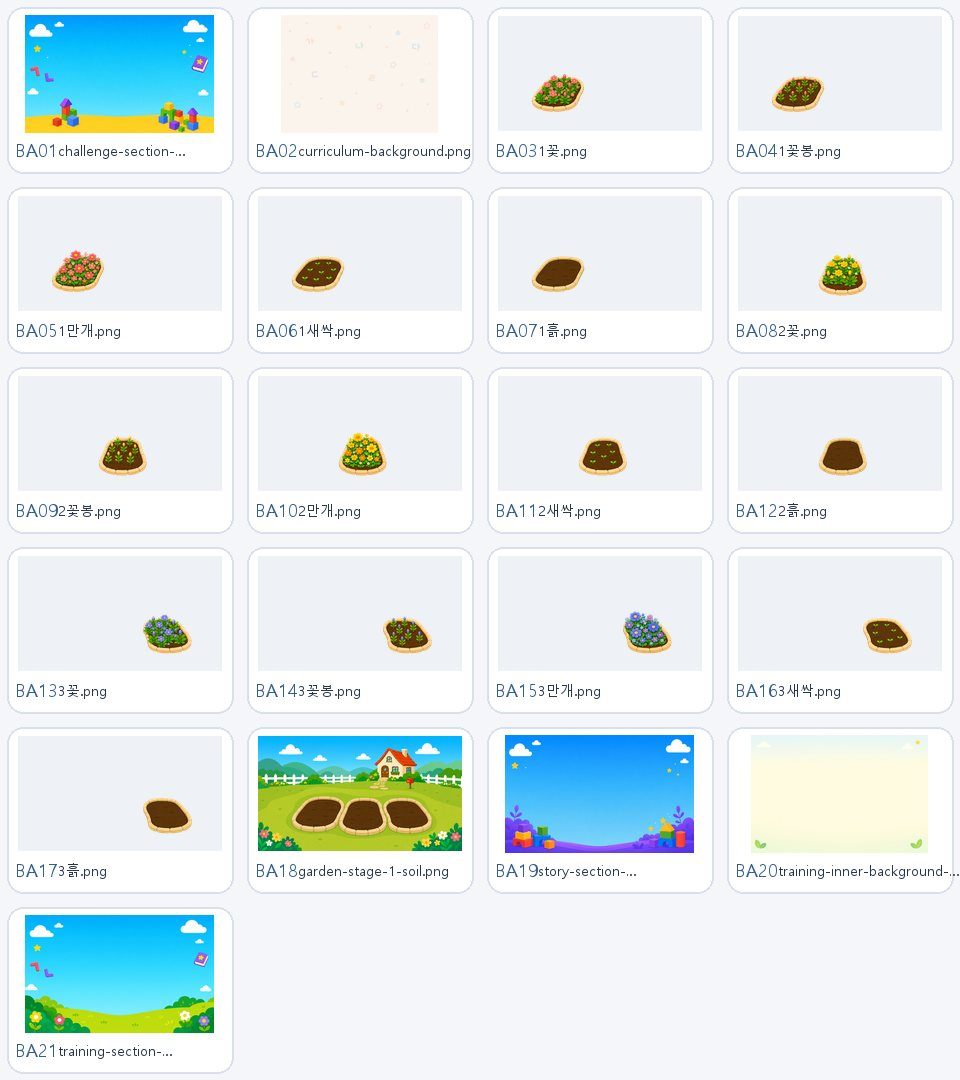
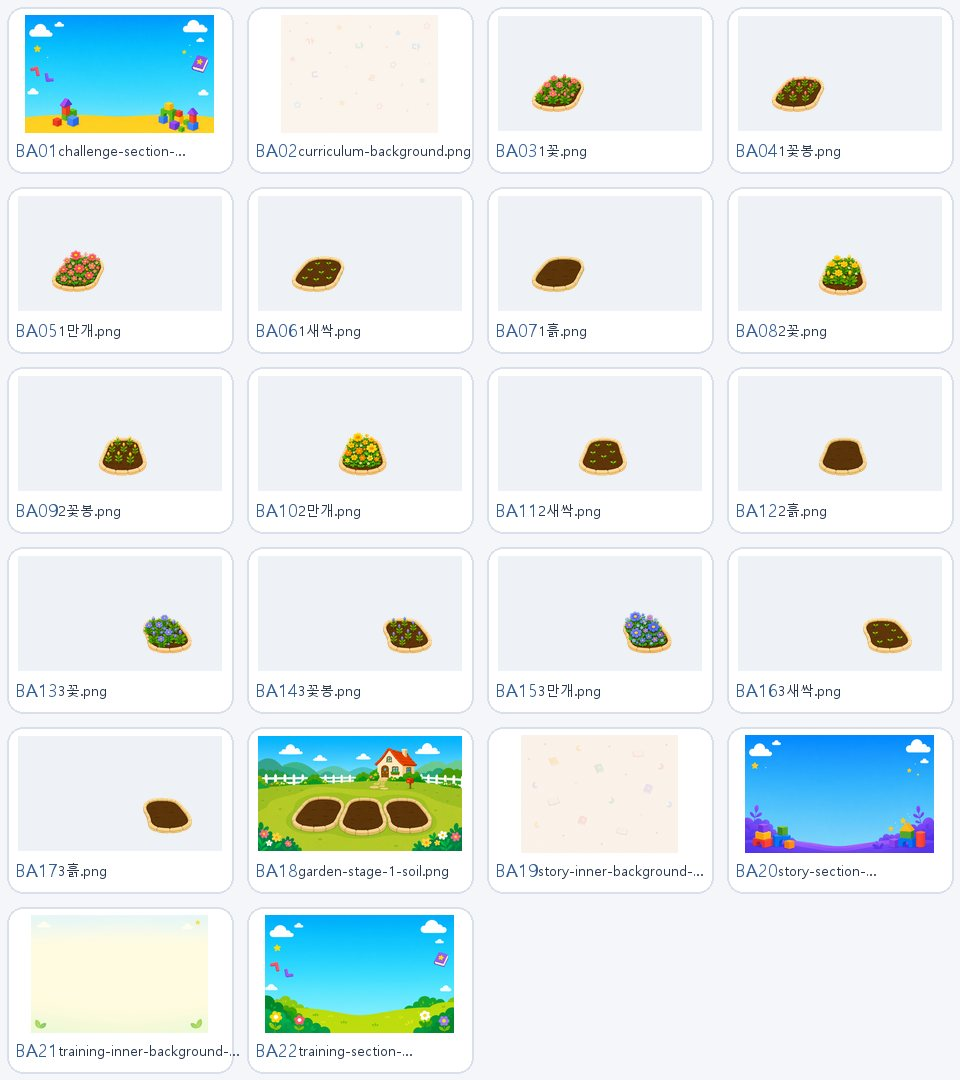
docs(design): 학습 UI 리소스 기준 갱신
아동용 학습 UI 정책과 에셋 사용 위치를 최신 구현에 맞춰 정리하고 frontend-app 서브모듈 참조를 갱신한다.

Changed region(s): [[0.0, 0.825, 0.5, 0.9778], [0.5, 0.6722, 1.0, 0.825]]

diff --git a/docs/product/frontend-asset-inventory.md b/docs/product/frontend-asset-inventory.md
@@ -3,7 +3,7 @@
 - 생성 기준: `tools/audit_frontend_assets.py`
 - 대상: `services/frontend-app/src/assets`
 - 기준일: 2026-07-30
-- 파일: 155개 · 57.60 MiB
+- 파일: 160개 · 58.01 MiB
 - 각 리소스의 미리보기, 실제 Vue 연결 상태, 노출 화면·위치, 직접 참조 파일과 1차 정비 분류를 함께 관리한다.
 
 ## 문서 읽는 법
@@ -20,7 +20,7 @@
 | --- | ---: |
 | `.png` | 123 |
 | `.svg` | 19 |
-| `.webp` | 9 |
+| `.webp` | 14 |
 | `.css` | 2 |
 | `.riv` | 1 |
 | `.ttf` | 1 |
@@ -55,9 +55,10 @@
 | BA16 | `backgrounds/garden-growth/3새싹.png` | 163.6 KiB<br>1672×941 | Vue 연결 확인 | 성장 정원 · 화단/이야기 친구<br>앱 전체 · 전역 오버레이 | `src/views/learner/GrowthView.vue` | 유지+최적화<br>표시 크기·차세대 포맷 검토 |
 | BA17 | `backgrounds/garden-growth/3흙.png` | 151.6 KiB<br>1672×941 | Vue 연결 확인 | 성장 정원 · 화단/이야기 친구<br>앱 전체 · 전역 오버레이 | `src/views/learner/GrowthView.vue` | 유지+최적화<br>표시 크기·차세대 포맷 검토 |
 | BA18 | `backgrounds/garden-growth/garden-stage-1-soil.png` | 1668.6 KiB<br>1672×941 | Vue 연결 확인 | 성장 정원 · 화단/이야기 친구<br>앱 전체 · 전역 오버레이 | `src/views/learner/GrowthView.vue` | 유지+최적화<br>표시 크기·차세대 포맷 검토 |
-| BA19 | `backgrounds/story-section-background.png` | 1176.5 KiB<br>1586×992 | Vue 연결 확인 | 앱 전체 · 전역 오버레이<br>이야기 나라 · 참조 스타일이 적용되는 화면<br>이야기 나라 · 책 선택/이어 읽기<br>이야기 읽기 · 장면/분기/친구 보상 | `src/styles/story/StoryReaderView.css`<br>`src/views/learner/StorySelectionView.vue` | 유지+최적화<br>표시 크기·차세대 포맷 검토 |
-| BA20 | `backgrounds/training-inner-background-flat-vector.png` | 1152.3 KiB<br>1536×1024 | Vue 연결 확인 | 글자 학습 · 참조 스타일이 적용되는 화면<br>글자 학습 · 커리큘럼/훈련 선택<br>앱 전체 · 전역 오버레이 | `src/styles/training/TrainingHomeView.css` | 유지+최적화<br>표시 크기·차세대 포맷 검토 |
-| BA21 | `backgrounds/training-section-background.png` | 1006.7 KiB<br>1586×992 | Vue 연결 확인 | 글자 학습 · 문제 세트 완료<br>글자 학습 · 문제 풀이 공통 화면<br>글자 학습 · 일반/올정답 완료<br>글자 학습 · 참조 스타일이 적용되는 화면<br>글자 학습 · 커리큘럼/훈련 선택<br>앱 전체 · 전역 오버레이<br>오늘의 학습 · 전체 완료 | `src/styles/training/TodayTrainingCompleteView.css`<br>`src/styles/training/TrainingComplete.css`<br>`src/styles/training/TrainingHomeView.css`<br>`src/styles/training/TrainingLessonView.css` | 유지+최적화<br>표시 크기·차세대 포맷 검토 |
+| BA19 | `backgrounds/story-inner-background-books.webp` | 7.5 KiB<br>1448×1086 | Vue 연결 확인 | 앱 전체 · 전역 오버레이<br>이야기 나라 · 참조 스타일이 적용되는 화면<br>이야기 나라 · 책 선택/이어 읽기 | `src/styles/story/StorySelectionView.css` | 유지+최적화<br>표시 크기·차세대 포맷 검토 |
+| BA20 | `backgrounds/story-section-background.png` | 1176.5 KiB<br>1586×992 | Vue 연결 확인 | 앱 전체 · 전역 오버레이<br>이야기 나라 · 참조 스타일이 적용되는 화면<br>이야기 나라 · 책 선택/이어 읽기<br>이야기 읽기 · 장면/분기/친구 보상 | `src/styles/story/StoryReaderView.css`<br>`src/views/learner/StorySelectionView.vue` | 유지+최적화<br>표시 크기·차세대 포맷 검토 |
+| BA21 | `backgrounds/training-inner-background-flat-vector.png` | 1152.3 KiB<br>1536×1024 | Vue 연결 확인 | 글자 학습 · 참조 스타일이 적용되는 화면<br>글자 학습 · 커리큘럼/훈련 선택<br>앱 전체 · 전역 오버레이 | `src/styles/training/TrainingHomeView.css` | 유지+최적화<br>표시 크기·차세대 포맷 검토 |
+| BA22 | `backgrounds/training-section-background.png` | 1006.7 KiB<br>1586×992 | Vue 연결 확인 | 글자 학습 · 문제 세트 완료<br>글자 학습 · 문제 풀이 공통 화면<br>글자 학습 · 일반/올정답 완료<br>글자 학습 · 참조 스타일이 적용되는 화면<br>글자 학습 · 커리큘럼/훈련 선택<br>앱 전체 · 전역 오버레이<br>오늘의 학습 · 전체 완료 | `src/styles/training/TodayTrainingCompleteView.css`<br>`src/styles/training/TrainingComplete.css`<br>`src/styles/training/TrainingHomeView.css`<br>`src/styles/training/TrainingLessonView.css` | 유지+최적화<br>표시 크기·차세대 포맷 검토 |
 
 ## `base.css`
 
@@ -177,21 +178,21 @@
 
 | 미리보기 | 리소스 | 크기·픽셀 | 연결 상태 | 화면·위치 | 직접 참조 | 분류·다음 검토 |
 | --- | --- | ---: | --- | --- | --- | --- |
-| <img src="../../services/frontend-app/src/assets/icons/arrow-back.svg" width="54" alt="arrow-back 미리보기"> | `icons/arrow-back.svg` | 0.2 KiB<br>- | Vue 연결 확인 | 글자 학습 · 문제 풀이 공통 화면<br>아동 상세 화면 · 공통 뒤로가기<br>앱 전체 · 전역 오버레이<br>이야기 나라 · 책 선택/이어 읽기<br>이야기 읽기 · 장면/분기/친구 보상 | `src/components/common/PageBackButton.vue` | 유지<br>공통 의미 아이콘 |
+| <img src="../../services/frontend-app/src/assets/icons/arrow-back.svg" width="54" alt="arrow-back 미리보기"> | `icons/arrow-back.svg` | 0.2 KiB<br>- | Vue 연결 확인 | 아동 상세 화면 · 공통 뒤로가기<br>앱 전체 · 전역 오버레이<br>이야기 나라 · 책 선택/이어 읽기<br>이야기 읽기 · 장면/분기/친구 보상 | `src/components/common/PageBackButton.vue` | 유지<br>공통 의미 아이콘 |
 | <img src="../../services/frontend-app/src/assets/icons/arrow-right.svg" width="54" alt="arrow-right 미리보기"> | `icons/arrow-right.svg` | 0.2 KiB<br>- | Vue 연결 확인 | 글자 학습 · SoundManipulation 활동<br>글자 학습 · SoundOmit 활동<br>글자 학습 · 문제 풀이 공통 화면<br>글자 학습 · 커리큘럼/훈련 선택<br>글자 학습 · 훈련 목록 모달<br>글자 학습 · 훈련 목록 카드<br>글자 학습 · 훈련 시작<br>실력 도전 · 코스 선택<br>앱 전체 · 전역 오버레이<br>이야기 읽기 · 장면/분기/친구 보상 | `src/components/training/activities/SoundManipulationActivity.vue`<br>`src/components/training/activities/SoundOmitActivity.vue`<br>`src/components/training/TrainingIntro.vue`<br>`src/components/training/TrainingLessonCard.vue`<br>`외 2개` | 유지<br>공통 의미 아이콘 |
-| <img src="../../services/frontend-app/src/assets/icons/check.svg" width="54" alt="check 미리보기"> | `icons/check.svg` | 0.2 KiB<br>- | Vue 연결 확인 | 글자 학습 · ReadAloud 활동<br>글자 학습 · WordReadingGrid 활동<br>글자 학습 · 문제 풀이 공통 화면<br>글자 학습 · 커리큘럼 경로<br>글자 학습 · 커리큘럼/훈련 선택<br>글자 학습 · 훈련 목록 모달<br>글자 학습 · 훈련 목록 카드<br>성장 정원 · 화단/이야기 친구<br>앱 전체 · 전역 오버레이 | `src/components/training/activities/ReadAloudActivity.vue`<br>`src/components/training/activities/WordReadingGridActivity.vue`<br>`src/components/training/TrainingCurriculumPath.vue`<br>`src/components/training/TrainingLessonCard.vue`<br>`외 1개` | 유지<br>공통 의미 아이콘 |
+| <img src="../../services/frontend-app/src/assets/icons/check.svg" width="54" alt="check 미리보기"> | `icons/check.svg` | 0.2 KiB<br>- | Vue 연결 확인 | 글자 학습 · ReadAloud 활동<br>글자 학습 · WordReadingGrid 활동<br>글자 학습 · 문제 풀이 공통 화면<br>글자 학습 · 커리큘럼 경로<br>글자 학습 · 커리큘럼/훈련 선택<br>글자 학습 · 훈련 목록 모달<br>글자 학습 · 훈련 목록 카드<br>성장 정원 · 화단/이야기 친구<br>앱 전체 · 전역 오버레이<br>이야기 읽기 · 장면/분기/친구 보상 | `src/components/training/activities/ReadAloudActivity.vue`<br>`src/components/training/activities/WordReadingGridActivity.vue`<br>`src/components/training/TrainingCurriculumPath.vue`<br>`src/components/training/TrainingLessonCard.vue`<br>`외 2개` | 유지<br>공통 의미 아이콘 |
 | <img src="../../services/frontend-app/src/assets/icons/close.svg" width="54" alt="close 미리보기"> | `icons/close.svg` | 0.2 KiB<br>- | Vue 연결 확인 | 글자 학습 · SoundOmit 활동<br>글자 학습 · 문제 풀이 공통 화면<br>글자 학습 · 커리큘럼/훈련 선택<br>글자 학습 · 훈련 목록 모달<br>성장 정원 · 이야기 친구 모달<br>성장 정원 · 화단/이야기 친구<br>앱 전체 · 전역 오버레이 | `src/components/growth/StoryFriendCollectionModal.vue`<br>`src/components/training/activities/SoundOmitActivity.vue`<br>`src/components/training/TrainingLessonModal.vue` | 유지<br>공통 의미 아이콘 |
 | <img src="../../services/frontend-app/src/assets/icons/drag-handle.svg" width="54" alt="drag-handle 미리보기"> | `icons/drag-handle.svg` | 0.3 KiB<br>- | Vue 연결 확인 | 글자 학습 · FillBlank 활동<br>글자 학습 · SentenceChoice 활동<br>글자 학습 · SentenceOrder 활동<br>글자 학습 · 문제 풀이 공통 화면<br>앱 전체 · 전역 오버레이 | `src/components/training/activities/FillBlankActivity.vue`<br>`src/components/training/activities/SentenceChoiceActivity.vue`<br>`src/components/training/activities/SentenceOrderActivity.vue` | 유지<br>공통 의미 아이콘 |
 | <img src="../../services/frontend-app/src/assets/icons/exit.svg" width="54" alt="exit 미리보기"> | `icons/exit.svg` | 0.5 KiB<br>- | Vue 연결 확인 | 로그인 이후 모든 아동 화면 · 공통 레이아웃<br>로그인 이후 모든 아동 화면 · 상단 헤더<br>앱 전체 · 전역 오버레이 | `src/components/layout/LearnerHeader.vue` | 유지<br>공통 의미 아이콘 |
 | <img src="../../services/frontend-app/src/assets/icons/eye-tracker.svg" width="54" alt="eye-tracker 미리보기"> | `icons/eye-tracker.svg` | 0.5 KiB<br>- | Vue 연결 확인 | 글자 학습 · 문제 풀이 공통 화면<br>로그인 이후 모든 아동 화면 · 공통 레이아웃<br>로그인 이후 모든 아동 화면 · 상단 헤더<br>앱 전체 · 전역 오버레이 | `src/components/layout/LearnerHeader.vue`<br>`src/views/learner/TrainingLessonView.vue` | 유지<br>공통 의미 아이콘 |
 | <img src="../../services/frontend-app/src/assets/icons/lock.svg" width="54" alt="lock 미리보기"> | `icons/lock.svg` | 0.3 KiB<br>- | Vue 연결 확인 | 아동 로그인 · 계정 입력/아동 선택<br>앱 전체 · 전역 오버레이 | `src/views/learner/LearnerLoginView.vue` | 유지<br>공통 의미 아이콘 |
-| <img src="../../services/frontend-app/src/assets/icons/microphone.svg" width="54" alt="microphone 미리보기"> | `icons/microphone.svg` | 0.3 KiB<br>- | Vue 연결 확인 | 글자 학습 · ReadAloud 활동<br>글자 학습 · 문제 풀이 공통 화면<br>로그인 이후 모든 아동 화면 · 공통 레이아웃<br>로그인 이후 모든 아동 화면 · 상단 헤더<br>앱 전체 · 전역 오버레이<br>이야기 읽기 · 장면/분기/친구 보상 | `src/components/layout/LearnerHeader.vue`<br>`src/components/training/activities/ReadAloudActivity.vue`<br>`src/views/learner/StoryReaderView.vue`<br>`src/views/learner/TrainingLessonView.vue` | 유지<br>공통 의미 아이콘 |
+| <img src="../../services/frontend-app/src/assets/icons/microphone.svg" width="54" alt="microphone 미리보기"> | `icons/microphone.svg` | 0.3 KiB<br>- | Vue 연결 확인 | 글자 학습 · GazeTrace 활동<br>글자 학습 · ReadAloud 활동<br>글자 학습 · 문제 풀이 공통 화면<br>로그인 이후 모든 아동 화면 · 공통 레이아웃<br>로그인 이후 모든 아동 화면 · 상단 헤더<br>앱 전체 · 전역 오버레이<br>이야기 읽기 · 장면/분기/친구 보상 | `src/components/layout/LearnerHeader.vue`<br>`src/components/training/activities/GazeTraceActivity.vue`<br>`src/components/training/activities/ReadAloudActivity.vue`<br>`src/views/learner/StoryReaderView.vue`<br>`외 1개` | 유지<br>공통 의미 아이콘 |
 | <img src="../../services/frontend-app/src/assets/icons/pending.svg" width="54" alt="pending 미리보기"> | `icons/pending.svg` | 0.2 KiB<br>- | Vue 연결 확인 | 글자 학습 · 커리큘럼/훈련 선택<br>글자 학습 · 훈련 목록 모달<br>글자 학습 · 훈련 목록 카드<br>앱 전체 · 전역 오버레이 | `src/components/training/TrainingLessonCard.vue` | 유지<br>공통 의미 아이콘 |
-| <img src="../../services/frontend-app/src/assets/icons/reading-active.svg" width="54" alt="reading-active 미리보기"> | `icons/reading-active.svg` | 0.3 KiB<br>- | Vue 연결 확인 | 글자 학습 · FillBlank 활동<br>글자 학습 · GazeTrace 활동<br>글자 학습 · SentenceChoice 활동<br>글자 학습 · SentenceOrder 활동<br>글자 학습 · SentenceReading 활동<br>글자 학습 · WordReadingGrid 활동<br>글자 학습 · 문제 풀이 공통 화면<br>앱 전체 · 전역 오버레이 | `src/components/training/activities/FillBlankActivity.vue`<br>`src/components/training/activities/GazeTraceActivity.vue`<br>`src/components/training/activities/SentenceChoiceActivity.vue`<br>`src/components/training/activities/SentenceOrderActivity.vue`<br>`외 2개` | 유지<br>공통 의미 아이콘 |
+| <img src="../../services/frontend-app/src/assets/icons/reading-active.svg" width="54" alt="reading-active 미리보기"> | `icons/reading-active.svg` | 0.3 KiB<br>- | Vue 연결 확인 | 글자 학습 · FillBlank 활동<br>글자 학습 · SentenceOrder 활동<br>글자 학습 · SentenceReading 활동<br>글자 학습 · WordReadingGrid 활동<br>글자 학습 · 문제 풀이 공통 화면<br>앱 전체 · 전역 오버레이 | `src/components/training/activities/FillBlankActivity.vue`<br>`src/components/training/activities/SentenceOrderActivity.vue`<br>`src/components/training/activities/SentenceReadingActivity.vue`<br>`src/components/training/activities/WordReadingGridActivity.vue` | 유지<br>공통 의미 아이콘 |
 | <img src="../../services/frontend-app/src/assets/icons/resource-placeholder.svg" width="54" alt="resource-placeholder 미리보기"> | `icons/resource-placeholder.svg` | 0.3 KiB<br>- | Vue 연결 확인 | 글자 학습 · AudioLetterChoice 활동<br>글자 학습 · CardCombine 활동<br>글자 학습 · ListenAndSelect 활동<br>글자 학습 · SentenceChoice 활동<br>글자 학습 · SoundChoice 활동<br>글자 학습 · 누락 리소스 자리<br>글자 학습 · 문제 풀이 공통 화면<br>글자 학습 · 자모 카드<br>앱 전체 · 전역 오버레이 | `src/components/training/ResourceRequired.vue` | 유지<br>공통 의미 아이콘 |
-| <img src="../../services/frontend-app/src/assets/icons/sound-listen.svg" width="54" alt="sound-listen 미리보기"> | `icons/sound-listen.svg` | 0.3 KiB<br>- | Vue 연결 확인 | 글자 학습 · AudioLetterChoice 활동<br>글자 학습 · GazeTrace 활동<br>글자 학습 · HangulBattle 활동<br>글자 학습 · LetterBuild 활동<br>글자 학습 · ListenAndSelect 활동<br>글자 학습 · ReadAloud 활동<br>글자 학습 · SoundBuild 활동<br>글자 학습 · SoundChoice 활동<br>글자 학습 · SoundManipulation 활동<br>글자 학습 · SoundOmit 활동<br>글자 학습 · 문제 풀이 공통 화면<br>소리가 있는 모든 학습 · 듣기/재생/다시 듣기<br>앱 전체 · 전역 오버레이 | `src/components/training/activities/ListenAndSelectActivity.vue`<br>`src/components/training/activities/SoundBuildActivity.vue`<br>`src/components/training/SoundButton.vue` | 유지<br>공통 의미 아이콘 |
-| <img src="../../services/frontend-app/src/assets/icons/sound-playing.svg" width="54" alt="sound-playing 미리보기"> | `icons/sound-playing.svg` | 0.3 KiB<br>- | Vue 연결 확인 | 글자 학습 · AudioLetterChoice 활동<br>글자 학습 · GazeTrace 활동<br>글자 학습 · HangulBattle 활동<br>글자 학습 · LetterBuild 활동<br>글자 학습 · ListenAndSelect 활동<br>글자 학습 · ReadAloud 활동<br>글자 학습 · SoundBuild 활동<br>글자 학습 · SoundChoice 활동<br>글자 학습 · SoundManipulation 활동<br>글자 학습 · SoundOmit 활동<br>글자 학습 · 문제 풀이 공통 화면<br>소리가 있는 모든 학습 · 듣기/재생/다시 듣기<br>앱 전체 · 전역 오버레이 | `src/components/training/SoundButton.vue` | 유지<br>공통 의미 아이콘 |
-| <img src="../../services/frontend-app/src/assets/icons/sound-replay.svg" width="54" alt="sound-replay 미리보기"> | `icons/sound-replay.svg` | 0.4 KiB<br>- | Vue 연결 확인 | 글자 학습 · AudioLetterChoice 활동<br>글자 학습 · GazeTrace 활동<br>글자 학습 · HangulBattle 활동<br>글자 학습 · LetterBuild 활동<br>글자 학습 · ListenAndSelect 활동<br>글자 학습 · ReadAloud 활동<br>글자 학습 · SoundBuild 활동<br>글자 학습 · SoundChoice 활동<br>글자 학습 · SoundManipulation 활동<br>글자 학습 · SoundOmit 활동<br>글자 학습 · 문제 풀이 공통 화면<br>소리가 있는 모든 학습 · 듣기/재생/다시 듣기<br>앱 전체 · 전역 오버레이 | `src/components/training/SoundButton.vue` | 유지<br>공통 의미 아이콘 |
+| <img src="../../services/frontend-app/src/assets/icons/sound-listen.svg" width="54" alt="sound-listen 미리보기"> | `icons/sound-listen.svg` | 0.3 KiB<br>- | Vue 연결 확인 | 글자 학습 · AudioLetterChoice 활동<br>글자 학습 · GazeTrace 활동<br>글자 학습 · LetterBuild 활동<br>글자 학습 · ListenAndSelect 활동<br>글자 학습 · ReadAloud 활동<br>글자 학습 · SoundBuild 활동<br>글자 학습 · SoundChoice 활동<br>글자 학습 · SoundManipulation 활동<br>글자 학습 · SoundOmit 활동<br>글자 학습 · 문제 풀이 공통 화면<br>소리가 있는 모든 학습 · 듣기/재생/다시 듣기<br>앱 전체 · 전역 오버레이 | `src/components/training/activities/ListenAndSelectActivity.vue`<br>`src/components/training/activities/SoundBuildActivity.vue`<br>`src/components/training/SoundButton.vue` | 유지<br>공통 의미 아이콘 |
+| <img src="../../services/frontend-app/src/assets/icons/sound-playing.svg" width="54" alt="sound-playing 미리보기"> | `icons/sound-playing.svg` | 0.3 KiB<br>- | Vue 연결 확인 | 글자 학습 · AudioLetterChoice 활동<br>글자 학습 · GazeTrace 활동<br>글자 학습 · LetterBuild 활동<br>글자 학습 · ListenAndSelect 활동<br>글자 학습 · ReadAloud 활동<br>글자 학습 · SoundBuild 활동<br>글자 학습 · SoundChoice 활동<br>글자 학습 · SoundManipulation 활동<br>글자 학습 · SoundOmit 활동<br>글자 학습 · 문제 풀이 공통 화면<br>소리가 있는 모든 학습 · 듣기/재생/다시 듣기<br>앱 전체 · 전역 오버레이 | `src/components/training/SoundButton.vue` | 유지<br>공통 의미 아이콘 |
+| <img src="../../services/frontend-app/src/assets/icons/sound-replay.svg" width="54" alt="sound-replay 미리보기"> | `icons/sound-replay.svg` | 0.4 KiB<br>- | Vue 연결 확인 | 글자 학습 · AudioLetterChoice 활동<br>글자 학습 · GazeTrace 활동<br>글자 학습 · LetterBuild 활동<br>글자 학습 · ListenAndSelect 활동<br>글자 학습 · ReadAloud 활동<br>글자 학습 · SoundBuild 활동<br>글자 학습 · SoundChoice 활동<br>글자 학습 · SoundManipulation 활동<br>글자 학습 · SoundOmit 활동<br>글자 학습 · 문제 풀이 공통 화면<br>소리가 있는 모든 학습 · 듣기/재생/다시 듣기<br>앱 전체 · 전역 오버레이 | `src/components/training/SoundButton.vue` | 유지<br>공통 의미 아이콘 |
 | <img src="../../services/frontend-app/src/assets/icons/stop.svg" width="54" alt="stop 미리보기"> | `icons/stop.svg` | 0.1 KiB<br>- | Vue 연결 확인 | 글자 학습 · ReadAloud 활동<br>글자 학습 · 문제 풀이 공통 화면<br>앱 전체 · 전역 오버레이 | `src/components/training/activities/ReadAloudActivity.vue` | 유지<br>공통 의미 아이콘 |
 | <img src="../../services/frontend-app/src/assets/icons/user.svg" width="54" alt="user 미리보기"> | `icons/user.svg` | 0.3 KiB<br>- | Vue 연결 확인 | 아동 로그인 · 계정 입력/아동 선택<br>앱 전체 · 전역 오버레이 | `src/views/learner/LearnerLoginView.vue` | 유지<br>공통 의미 아이콘 |
 
@@ -241,7 +242,7 @@
 
 | 미리보기 | 리소스 | 크기·픽셀 | 연결 상태 | 화면·위치 | 직접 참조 | 분류·다음 검토 |
 | --- | --- | ---: | --- | --- | --- | --- |
-| ST01 | `story/alice-continue.png` | 1571.6 KiB<br>1672×941 | Vue 연결 확인 | 앱 전체 · 전역 오버레이<br>이야기 나라 · 책 선택/이어 읽기 | `src/views/learner/StorySelectionView.vue` | 다듬기<br>동일 인물·화풍 일관성 검토 |
+| ST01 | `story/alice-continue.png` | 1571.6 KiB<br>1672×941 | [TBD] 현재 src 코드 참조 없음 | [TBD] 현재 노출 화면 확인 안 됨<br>예상 용도: 이야기 나라 · 표지/본문/분기 | — | 다듬기<br>동일 인물·화풍 일관성 검토 |
 | ST02 | `story/characters/alice-friend.png` | 505.4 KiB<br>1254×1254 | Vue 연결 확인 | 성장 정원 · 화단/이야기 친구<br>이야기 읽기 · 장면/분기/친구 보상 | `src/mocks/learnerRuntimeMock.ts` | 다듬기<br>동일 인물·화풍 일관성 검토 |
 | ST03 | `story/characters/grasshopper-friend.png` | 465.8 KiB<br>1254×1254 | Vue 연결 확인 | 성장 정원 · 화단/이야기 친구<br>이야기 읽기 · 장면/분기/친구 보상 | `src/mocks/learnerRuntimeMock.ts` | 다듬기<br>동일 인물·화풍 일관성 검토 |
 | ST04 | `story/characters/old-fisherman-friend.png` | 473.9 KiB<br>1254×1254 | Vue 연결 확인 | 성장 정원 · 화단/이야기 친구<br>이야기 읽기 · 장면/분기/친구 보상 | `src/mocks/learnerRuntimeMock.ts` | 다듬기<br>동일 인물·화풍 일관성 검토 |
@@ -277,15 +278,19 @@
 | TR14 | `training/learning-platform-complete.png` | 497.7 KiB<br>1078×534 | Vue 연결 확인 | 글자 학습 · 커리큘럼 경로<br>글자 학습 · 커리큘럼/훈련 선택<br>앱 전체 · 전역 오버레이 | `src/components/training/TrainingCurriculumPath.vue` | 유지+검수<br>학습 상태 보드에서 검수 |
 | TR15 | `training/learning-platform-current.png` | 451.8 KiB<br>1078×534 | Vue 연결 확인 | 글자 학습 · 커리큘럼 경로<br>글자 학습 · 커리큘럼/훈련 선택<br>앱 전체 · 전역 오버레이 | `src/components/training/TrainingCurriculumPath.vue` | 유지+검수<br>학습 상태 보드에서 검수 |
 | TR16 | `training/learning-platform-locked.png` | 489.6 KiB<br>1079×534 | Vue 연결 확인 | 글자 학습 · 커리큘럼 경로<br>글자 학습 · 커리큘럼/훈련 선택<br>앱 전체 · 전역 오버레이 | `src/components/training/TrainingCurriculumPath.vue` | 유지+검수<br>학습 상태 보드에서 검수 |
-| TR17 | `training/ui/consonant-trace-background.png` | 969.2 KiB<br>1402×1122 | Vue 연결 확인 | 글자 학습 · GazeTrace 활동<br>글자 학습 · 문제 풀이 공통 화면<br>글자 학습 · 참조 스타일이 적용되는 화면<br>앱 전체 · 전역 오버레이 | `src/styles/training/activities/GazeTraceActivity.css` | 유지+검수<br>학습 상태 보드에서 검수 |
-| TR18 | `training/ui/curriculum-calendar.png` | 700.9 KiB<br>1690×931 | [TBD] 현재 src 코드 참조 없음 | [TBD] 현재 노출 화면 확인 안 됨<br>예상 용도: 글자 학습 · 진행도/커리큘럼/완료 UI | — | 유지+검수<br>학습 상태 보드에서 검수 |
-| TR19 | `training/ui/curriculum-integrated-header.webp` | 263.2 KiB<br>2048×314 | Vue 연결 확인 | 글자 학습 · 커리큘럼 경로<br>글자 학습 · 커리큘럼/훈련 선택<br>앱 전체 · 전역 오버레이 | `src/components/training/TrainingCurriculumPath.vue` | 유지+검수<br>학습 상태 보드에서 검수 |
-| TR20 | `training/ui/curriculum-progress-card.png` | 522.9 KiB<br>1693×929 | [TBD] 현재 src 코드 참조 없음 | [TBD] 현재 노출 화면 확인 안 됨<br>예상 용도: 글자 학습 · 진행도/커리큘럼/완료 UI | — | 유지+검수<br>학습 상태 보드에서 검수 |
-| TR21 | `training/ui/curriculum-title-sign.png` | 791.3 KiB<br>1823×863 | [TBD] 현재 src 코드 참조 없음 | [TBD] 현재 노출 화면 확인 안 됨<br>예상 용도: 글자 학습 · 진행도/커리큘럼/완료 UI | — | 유지+검수<br>학습 상태 보드에서 검수 |
-| TR22 | `training/ui/leave-training-rabbit.png` | 391.1 KiB<br>1254×1254 | Vue 연결 확인 | 글자 학습 · 문제 풀이 공통 화면<br>앱 전체 · 전역 오버레이 | `src/views/learner/TrainingLessonView.vue` | 유지+검수<br>학습 상태 보드에서 검수 |
-| TR23 | `training/ui/lesson-progress-title-board.webp` | 34.7 KiB<br>1889×528 | Vue 연결 확인 | 글자 학습 · 문제 풀이 공통 화면<br>앱 전체 · 전역 오버레이 | `src/views/learner/TrainingLessonView.vue` | 유지+검수<br>학습 상태 보드에서 검수 |
-| TR24 | `training/ui/progress-star.png` | 60.6 KiB<br>320×320 | Vue 연결 확인 | 글자 학습 · HangulBattle 활동<br>글자 학습 · SentenceReading 활동<br>글자 학습 · WordReadingGrid 활동<br>글자 학습 · 문제 세트 완료<br>글자 학습 · 문제 풀이 공통 화면<br>글자 학습 · 일반/올정답 완료<br>앱 전체 · 전역 오버레이<br>이야기 나라 · 책 선택/이어 읽기 | `src/components/training/activities/HangulBattleActivity.vue`<br>`src/components/training/activities/SentenceReadingActivity.vue`<br>`src/components/training/activities/WordReadingGridActivity.vue`<br>`src/components/training/TrainingComplete.vue`<br>`외 1개` | 유지+검수<br>학습 상태 보드에서 검수 |
-| TR25 | `training/ui/training-complete-rabbit.png` | 537.7 KiB<br>1254×1254 | Vue 연결 확인 | 글자 학습 · 문제 세트 완료<br>글자 학습 · 일반/올정답 완료<br>실력 도전 · 완료<br>앱 전체 · 전역 오버레이<br>오늘의 학습 · 전체 완료 | `src/components/training/TrainingComplete.vue`<br>`src/views/learner/SkillChallengeCompleteView.vue`<br>`src/views/learner/TodayTrainingCompleteView.vue` | 유지+검수<br>학습 상태 보드에서 검수 |
+| TR17 | `training/navigation/learning-back.webp` | 22.0 KiB<br>1254×1254 | Vue 연결 확인 | 글자 학습 · 문제 풀이 공통 화면<br>앱 전체 · 전역 오버레이 | `src/components/training/LearningBackButton.vue` | 유지+검수<br>학습 상태 보드에서 검수 |
+| TR18 | `training/navigation/learning-next-active.webp` | 18.1 KiB<br>1254×1254 | Vue 연결 확인 | 글자 학습 · 문제 풀이 공통 화면<br>앱 전체 · 전역 오버레이 | `src/components/training/LearningNextButton.vue` | 유지+검수<br>학습 상태 보드에서 검수 |
+| TR19 | `training/navigation/learning-next-disabled.webp` | 14.6 KiB<br>1254×1254 | Vue 연결 확인 | 글자 학습 · 문제 풀이 공통 화면<br>앱 전체 · 전역 오버레이 | `src/components/training/LearningNextButton.vue` | 유지+검수<br>학습 상태 보드에서 검수 |
+| TR20 | `training/ui/consonant-trace-background.png` | 969.2 KiB<br>1402×1122 | [TBD] 현재 src 코드 참조 없음 | [TBD] 현재 노출 화면 확인 안 됨<br>예상 용도: 글자 학습 · 진행도/커리큘럼/완료 UI | — | 유지+검수<br>학습 상태 보드에서 검수 |
+| TR21 | `training/ui/curriculum-calendar.png` | 700.9 KiB<br>1690×931 | [TBD] 현재 src 코드 참조 없음 | [TBD] 현재 노출 화면 확인 안 됨<br>예상 용도: 글자 학습 · 진행도/커리큘럼/완료 UI | — | 유지+검수<br>학습 상태 보드에서 검수 |
+| TR22 | `training/ui/curriculum-integrated-header.webp` | 263.2 KiB<br>2048×314 | Vue 연결 확인 | 글자 학습 · 커리큘럼 경로<br>글자 학습 · 커리큘럼/훈련 선택<br>앱 전체 · 전역 오버레이 | `src/components/training/TrainingCurriculumPath.vue` | 유지+검수<br>학습 상태 보드에서 검수 |
+| TR23 | `training/ui/curriculum-progress-card.png` | 522.9 KiB<br>1693×929 | [TBD] 현재 src 코드 참조 없음 | [TBD] 현재 노출 화면 확인 안 됨<br>예상 용도: 글자 학습 · 진행도/커리큘럼/완료 UI | — | 유지+검수<br>학습 상태 보드에서 검수 |
+| TR24 | `training/ui/curriculum-title-sign.png` | 791.3 KiB<br>1823×863 | [TBD] 현재 src 코드 참조 없음 | [TBD] 현재 노출 화면 확인 안 됨<br>예상 용도: 글자 학습 · 진행도/커리큘럼/완료 UI | — | 유지+검수<br>학습 상태 보드에서 검수 |
+| TR25 | `training/ui/leave-training-rabbit.png` | 391.1 KiB<br>1254×1254 | Vue 연결 확인 | 글자 학습 · 문제 풀이 공통 화면<br>앱 전체 · 전역 오버레이 | `src/views/learner/TrainingLessonView.vue` | 유지+검수<br>학습 상태 보드에서 검수 |
+| TR26 | `training/ui/lesson-progress-title-board-compact.webp` | 358.5 KiB<br>1889×406 | Vue 연결 확인 | 글자 학습 · 문제 풀이 공통 화면<br>앱 전체 · 전역 오버레이 | `src/views/learner/TrainingLessonView.vue` | 유지+검수<br>학습 상태 보드에서 검수 |
+| TR27 | `training/ui/lesson-progress-title-board.webp` | 34.7 KiB<br>1889×528 | [TBD] 현재 src 코드 참조 없음 | [TBD] 현재 노출 화면 확인 안 됨<br>예상 용도: 글자 학습 · 진행도/커리큘럼/완료 UI | — | 유지+검수<br>학습 상태 보드에서 검수 |
+| TR28 | `training/ui/progress-star.png` | 60.6 KiB<br>320×320 | Vue 연결 확인 | 글자 학습 · HangulBattle 활동<br>글자 학습 · SentenceReading 활동<br>글자 학습 · WordReadingGrid 활동<br>글자 학습 · 문제 세트 완료<br>글자 학습 · 문제 풀이 공통 화면<br>글자 학습 · 일반/올정답 완료<br>앱 전체 · 전역 오버레이<br>이야기 나라 · 책 선택/이어 읽기 | `src/components/training/activities/HangulBattleActivity.vue`<br>`src/components/training/activities/SentenceReadingActivity.vue`<br>`src/components/training/activities/WordReadingGridActivity.vue`<br>`src/components/training/TrainingComplete.vue`<br>`외 1개` | 유지+검수<br>학습 상태 보드에서 검수 |
+| TR29 | `training/ui/training-complete-rabbit.png` | 537.7 KiB<br>1254×1254 | Vue 연결 확인 | 글자 학습 · 문제 세트 완료<br>글자 학습 · 일반/올정답 완료<br>실력 도전 · 완료<br>앱 전체 · 전역 오버레이<br>오늘의 학습 · 전체 완료 | `src/components/training/TrainingComplete.vue`<br>`src/views/learner/SkillChallengeCompleteView.vue`<br>`src/views/learner/TodayTrainingCompleteView.vue` | 유지+검수<br>학습 상태 보드에서 검수 |
 
 ## 누락 리소스
 

diff --git a/docs/product/iread-app-design-guide.md b/docs/product/iread-app-design-guide.md
@@ -44,7 +44,8 @@
 ### 2.1 전체화면 EXE
 
 - 최종 앱은 브라우저 탭이 아니라 **Windows EXE 전체화면**을 기준으로 한다.
-- 브라우저 주소창, 탭, OS 작업 표시줄이 없는 `100dvw × 100dvh` 화면을 기본 캔버스로 본다.
+- 브라우저 주소창, 탭, OS 작업 표시줄이 없는 노트북 F11 전체화면 안에 `1920 × 1200` 고정 논리 캔버스를 둔다.
+- 학습자 앱은 반응형 재배치 화면이 아니다. 실제 화면 크기에 맞춰 논리 캔버스 전체를 하나의 배율로 확대·축소한다.
 - 메인, 학습, 독서 화면은 세로 스크롤 없이 한 화면 안에서 핵심 과제를 완료하도록 구성한다.
 - 뒤로 가기나 홈 이동은 브라우저 UI에 의존하지 않고 서비스 헤더와 화면 버튼으로 제공한다.
 - 종료는 헤더 오른쪽의 `나가기` 버튼으로 제공한다.
@@ -53,24 +54,26 @@
 
 | 구분 | 해상도 | 용도 |
 | --- | ---: | --- |
-| 디자인 기준 | `1920 × 1080` | 원본 배경, 전체화면 QA, 이미지 생성 기준 |
-| 최소 검증 | `1280 × 720` | 저해상도 노트북과 프로젝터 |
-| 일반 검증 | `1366 × 768` | 학교·가정용 노트북 |
-| 고해상도 검증 | `2560 × 1440` | 고해상도 모니터의 확대 상태 확인 |
+| 디자인 기준 | `1920 × 1200` | 현재 개발 노트북 F11과 같은 16:10 전체화면 QA 기준 |
+| 최소 검증 | `1280 × 800` | 작은 16:10 노트북과 태블릿 |
+| 일반 검증 | `1680 × 1050` | 학교·가정용 16:10 노트북 |
+| 고해상도 검증 | `2880 × 1800` | 현재 개발 노트북의 실제 패널 해상도 |
 
-- 기본 화면 비율은 `16:9`다.
-- 중요한 글자, 버튼과 캐릭터는 화면 가장자리에서 최소 `3vw`, 위아래 최소 `3vh` 안쪽의 안전 영역에 둔다.
+- 기본 화면 비율은 현재 개발 노트북 F11 전체화면과 같은 `16:10`이다.
+- `1280 × 800`, `1920 × 1200`, `2880 × 1800`처럼 비율이 같은 화면에서는 글자, 카드, 이미지, 간격과 헤더가 모두 같은 비율로 변해야 한다.
+- 화면이 작아져도 글자만 줄바꿈하거나 카드 순서가 바뀌지 않는다. 다른 화면비에서는 전체 장면을 잘리지 않게 맞추고 남는 영역을 레터박스로 처리한다.
+- 중요한 글자, 버튼과 캐릭터는 고정 캔버스 가장자리에서 최소 `3cqw`, 위아래 최소 `3cqh` 안쪽의 안전 영역에 둔다.
 - 배경은 `cover`, 독립 캐릭터·아이콘·지도는 `contain`을 기본값으로 사용한다.
 - 배경이 잘릴 때 중요한 사물은 중앙 `80% × 80%` 안에 남아야 한다.
-- 고정 픽셀만 사용하지 않고 `clamp()`, `vw`, `vh`, `dvh`, `aspect-ratio`를 사용한다.
+- 내부 크기 계산은 고정 논리 캔버스 또는 해당 캔버스의 `cqw`, `cqh`, `cqmin`을 사용한다. 브라우저 실제 viewport의 `vw`, `vh`, `dvh`로 학습자 화면을 다시 배치하지 않는다.
 - 아동이 누르는 조작 요소는 최소 `52 × 52px`, 주요 행동 버튼은 높이 `60~72px`를 권장한다.
 
 ### 2.3 현재 레이아웃 기준
 
-- 헤더 높이: `clamp(96px, 13.3vh, 116px)`
+- 헤더 높이: `clamp(96px, 13.3cqh, 116px)`
 - 최대 콘텐츠 폭: `1440px`
 - 독서 콘텐츠 기준 폭: `1080px`
-- 페이지 좌우 여백: `clamp(24px, 4vw, 64px)`
+- 페이지 좌우 여백: `clamp(24px, 4cqw, 64px)`
 - 헤더는 페이지를 아래로 밀지 않는 오버레이 구조다.
 - 페이지 배경은 화면 최상단부터 채우고, 실제 콘텐츠만 헤더 아래 안전 영역에 배치한다.
 
@@ -731,7 +734,19 @@ growth-field-phonics-stage-03.png
 - 문제 제시 영역이 장식보다 먼저 보이고 화면에서 가장 큰 비중을 차지해야 한다.
 - 응답은 선택 카드, 그림 카드, 글자 카드, 드래그 앤 드롭, 순서 배열, 음성 녹음, 읽기, 글자 입력, 연결하기 공통 모듈을 재사용한다.
 
-### 18.1 음성 듣기
+### 18.1 글자 따라보기
+
+- 읽기 영역은 장식 없는 흰색 블록을 사용하고 글자 획은 파란색 외곽선으로 표시한다.
+- 움직이는 시선 점과 완료 후 회전하는 점선 원은 표시하지 않는다.
+- 각 획의 시작점에는 `1`, `2`, `3`, `4`처럼 고정된 순서 번호만 표시한다.
+- 마지막 지점을 읽으면 글자 안쪽을 하늘색으로 채우고 글자 중심에서 원형 파동을 한 번 퍼뜨려 완료를 알린다.
+- 완료 파동 뒤에는 오른쪽 말하기 패널의 테두리를 코랄색으로 밝혀 다음 행동이 음성 입력임을 연결한다.
+- 진행 표시 아래에는 `글자를 따라 읽어요!`처럼 행동을 설명하는 짧은 안내를 둔다.
+- 오른쪽 위에는 공통 듣기 버튼만 배치하고 현재 글자를 중복해서 작게 표시하지 않는다.
+- 획을 모두 따라가면 자모 이름 또는 음절 소리를 들려준 뒤 아동의 발음을 받는다.
+- 오른쪽 아래 말하기 패널은 마이크 상태, 파형과 짧은 상태 문구로 녹음 중임을 표시한다.
+
+### 18.2 음성 듣기
 
 - 모든 훈련에서 동일한 스피커 아이콘, 위치와 크기를 사용한다.
 - 화면에 보이는 버튼 문구 없이 기본·다시 듣기·재생 중의 서로 다른 정식 아이콘 리소스를 사용한다.
@@ -739,26 +754,35 @@ growth-field-phonics-stage-03.png
 - 재생 중에는 전용 아이콘과 짧은 파동 움직임만 표시한다.
 - 재생 상태에 `듣고 있어요`를 사용하지 않는다. 이 문구는 음성 녹음 상태에만 사용한다.
 
-### 18.2 선택형 문제
+### 18.3 학습 진행 버튼
+
+- 모든 학습 문제의 나가기와 다음 이동은 학습 창 왼쪽 위와 오른쪽 위에 고정된 같은 크기의 파란색 공통 화살표 리소스를 사용한다.
+- 나가기는 굽은 왼쪽 화살표, 다음 이동은 오른쪽 화살표로 구분한다.
+- 문제를 완료하기 전의 다음 이동은 연한 파란색 비활성 리소스로 표시하며 누를 수 없게 한다.
+- 문제를 완료하면 같은 위치에서 선명한 파란색 활성 리소스로 바뀌고, 짧은 확대·축소와 푸른 빛 효과로 이동 가능 상태를 알린다.
+- 버튼 안에는 아동이 읽어야 하는 문구를 넣지 않고 오른쪽 화살표만 표시한다.
+- 액티비티 내부에는 별도의 `다음`, `다음 문제` 텍스트 버튼을 노출하지 않는다.
+
+### 18.3 선택형 문제
 
 - 선택지는 기본 2~4개를 사용한다.
 - 카드 크기와 간격을 통일하고 카드 전체를 클릭할 수 있게 한다.
 - 글자, 그림, 단어가 달라도 동일한 선택 카드 구조와 공통 상태 규칙을 사용한다.
 
-### 18.3 드래그 앤 드롭
+### 18.4 드래그 앤 드롭
 
 - 드래그 대상과 도착 영역을 명확히 구분한다.
 - 잘못 놓은 항목은 원래 자리로 부드럽게 복귀한다.
 - 시선 입력 환경에는 `대상 선택 → 위치 선택` 대체 방식을 제공한다.
 
-### 18.4 순서 배열
+### 18.5 순서 배열
 
 - 카드와 슬롯 크기를 통일한다.
 - 현재 선택 카드를 명확하게 표시한다.
 - 배열 완료 전에는 다음 버튼을 비활성화한다.
 - 전체 초기화 또는 한 단계 되돌리기를 제공한다.
 
-### 18.5 음성 녹음
+### 18.6 음성 녹음
 
 - 코랄색 마이크 버튼을 공통으로 사용한다.
 - 녹음 전 `말해보세요`, 녹음 중 `듣고 있어요`, 분석 중 `읽은 내용을 확인하고 있어요`를 사용한다.
@@ -766,7 +790,7 @@ growth-field-phonics-stage-03.png
 - 실패 시 다시 말하기 버튼을 제공한다.
 - 재생과 녹음 상태는 문구와 색상 모두로 구분한다.
 
-### 18.6 읽기
+### 18.7 읽기
 
 - 읽을 글은 화면 중심에 크게 배치한다.
 - 글자 크기, 줄간격, 문장 간격은 공통 읽기 토큰을 사용한다.
@@ -774,7 +798,7 @@ growth-field-phonics-stage-03.png
 - 현재 단어나 어절은 낮은 채도의 하이라이트를 사용한다.
 - 배경 장식은 읽기 영역과 겹치지 않는다.
 
-### 18.7 연결하기
+### 18.8 연결하기
 
 - 시작 항목과 도착 항목을 두 영역으로 구분한다.
 - 선택한 항목과 연결 가능한 대상만 강조한다.
